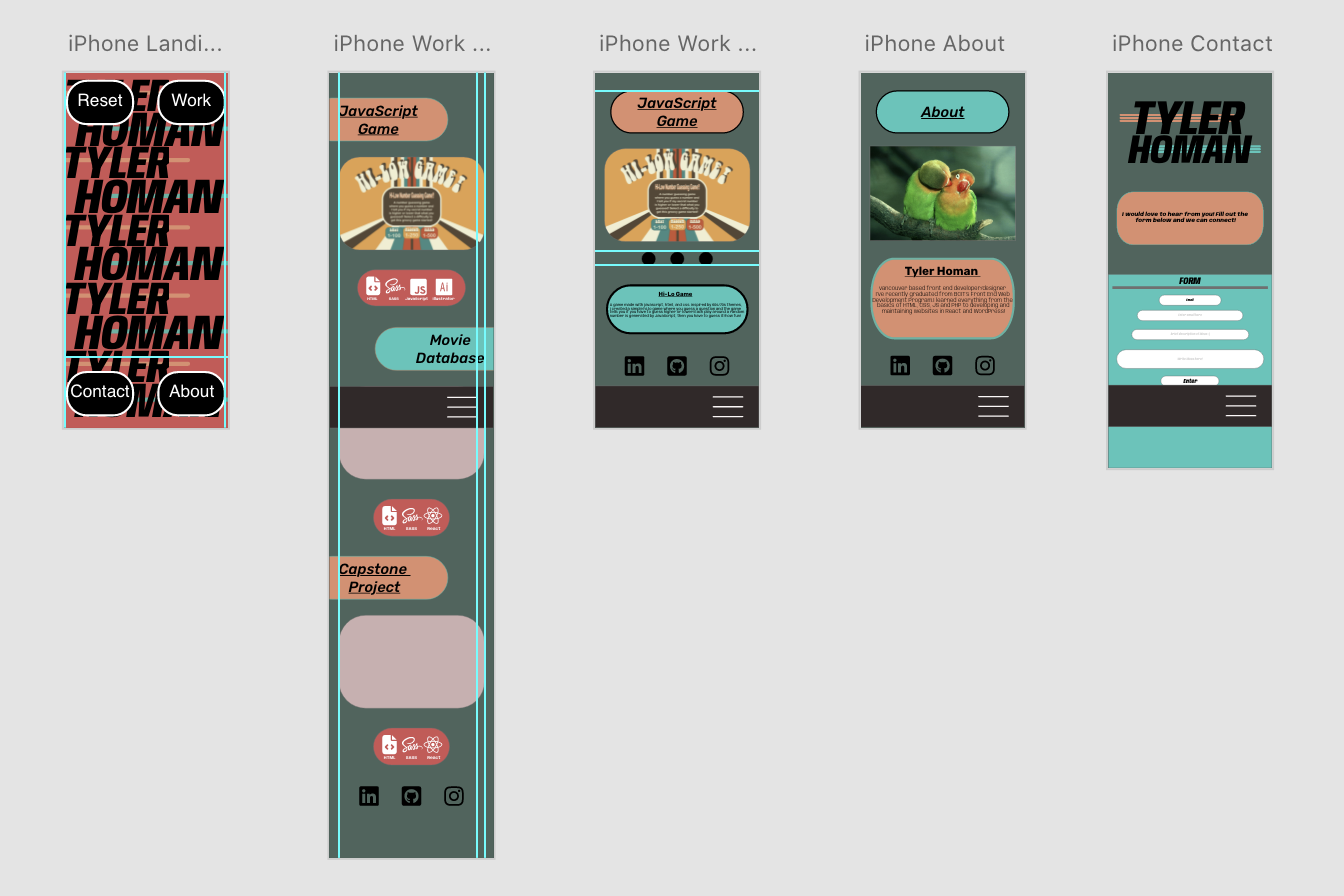
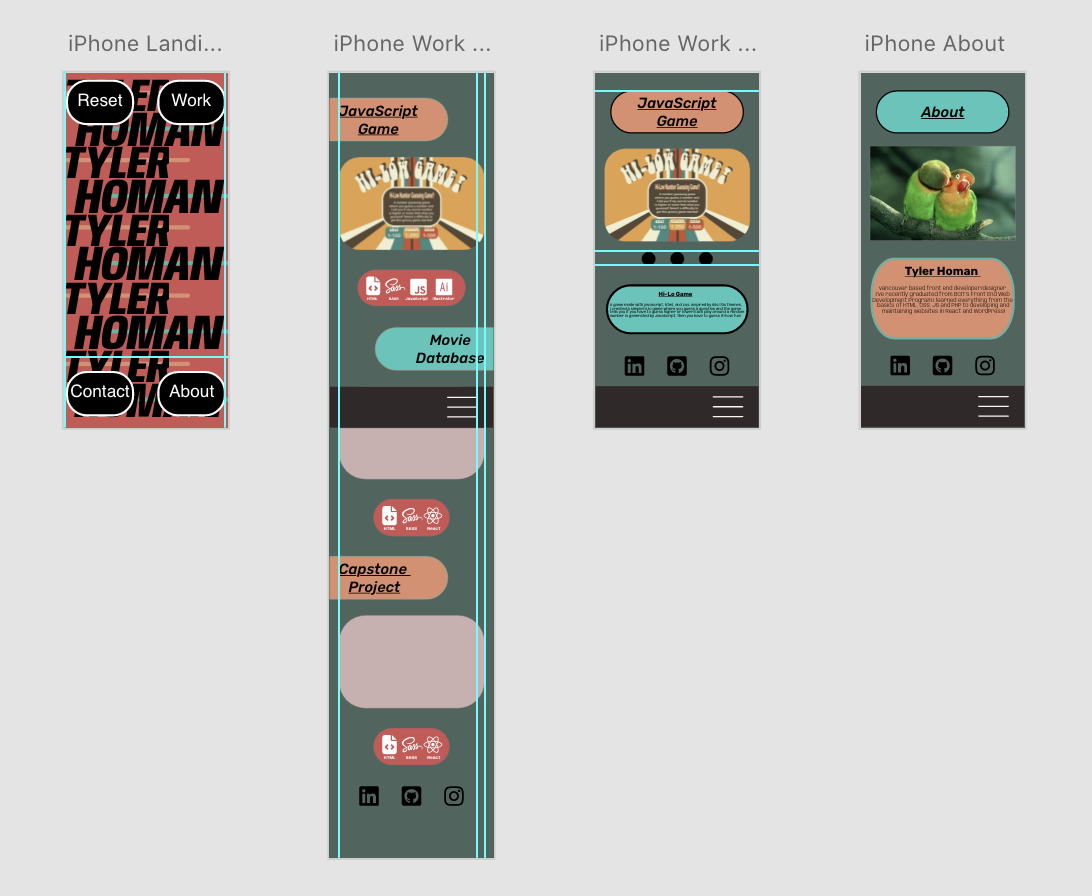
more edits, clean ups, also additions to code and images

diff --git a/src/scss/_landing.scss b/src/scss/_landing.scss
@@ -20,29 +20,6 @@ body {
   white-space: nowrap;
 }
 
-.homan span {
-  font-family: "rubik", sans-serif;
-  position: relative;
-  top: 16.5rem;
-  font-weight: 900;
-  color: $orange;
-  font-size: 5em;
-  text-transform: uppercase;
-  display: inline-block;
-  padding-left: -10%;
-  animation: homan-animation 200s linear infinite;
-  overflow: hidden;
-}
-
-@keyframes homan-animation {
-  0% {
-    transform: translate(0, 0);
-  }
-  100% {
-    transform: translate(-100%, 0);
-  }
-}
-
 .tyler {
   width: 100%;
   padding-left: 4em;
@@ -74,7 +51,7 @@ body {
 .designdev {
   width: 100%;
   position: relative;
-  top: 22em;
+  top: 23em;
   padding-left: 4em;
   margin: 0, auto;
   white-space: nowrap;
@@ -93,6 +70,29 @@ body {
 }
 
 @keyframes designdev-animation {
+  0% {
+    transform: translate(0, 0);
+  }
+  100% {
+    transform: translate(-100%, 0);
+  }
+}
+
+.homan span {
+  font-family: "rubik", sans-serif;
+  position: relative;
+  top: 16.5rem;
+  font-weight: 900;
+  color: $orange;
+  font-size: 5em;
+  text-transform: uppercase;
+  display: inline-block;
+  padding-left: -10%;
+  animation: homan-animation 200s linear infinite;
+  overflow: hidden;
+}
+
+@keyframes homan-animation {
   0% {
     transform: translate(0, 0);
   }
@@ -178,7 +178,7 @@ body {
 
   .homan span {
     position: fixed;
-    top: 35rem;
+    top: 34rem;
     font-weight: 900;
     color: $orange;
     font-size: 10em;

diff --git a/src/routers/AppRouter.js b/src/routers/AppRouter.js
@@ -1,7 +1,6 @@
 import { BrowserRouter, Routes, Route } from "react-router-dom";
 import Nav from "../components/Nav";
 import Works from "../pages/PageWorks";
-import Single from "../pages/PageWorksSingle";
 import About from "../pages/PageAbout";
 import Landing from "../pages/PageLanding";
 import "../scss/styles.scss";
@@ -21,7 +20,6 @@ function AppRouter() {
             <Route path="/" element={<Landing />} />
             <Route path="/works" exact element={<Works />} />
             <Route path="/about" element={<About />} />
-            <Route path="/singleworks" element={<Single />} />
             <Route path="/capstone" element={<Capstone />} />
             <Route path="/hilo" element={<HiLo />} />
             <Route path="/movie-database" element={<MovieDatabase />} />

diff --git a/src/scss/_works.scss b/src/scss/_works.scss
@@ -14,9 +14,7 @@
   animation: worksSpanLarge-animation 250s linear infinite;
   overflow: hidden;
 }
-// .worksSpanLarge span:hover {
-//   animation-play-state: paused;
-// }
+
 @keyframes worksSpanLarge-animation {
   0% {
     transform: translate(0, 0);
@@ -432,7 +430,7 @@
 
 @media (min-width: 1100px) {
   .website-image img {
-    width: 750px;
+    width: 650px;
     height: auto;
     border-radius: 20px;
   }
@@ -474,7 +472,7 @@
 
 @media (min-width: 1500px) {
   .website-image img {
-    width: 950px;
+    width: 750px;
     height: auto;
     border-radius: 20px;
   }

diff --git a/src/pages/PageWorks.js b/src/pages/PageWorks.js
@@ -30,7 +30,7 @@ function PageWorks() {
         <div className="website-image">
           <NavLink to="/website">
             {Content && (
-              <img src={Content["capstone"].images[0]} alt="WebSite" />
+              <img src={Content["website"].images[0]} alt="WebSite" />
             )}
           </NavLink>
         </div>

diff --git a/src/scss/_single.scss b/src/scss/_single.scss
@@ -68,9 +68,9 @@
   margin: 0.75rem auto;
 
   a {
-    color: $creme;
+    color: black;
     font-size: 1.25rem;
-    font-family: "rubrik", sans-serif;
+    font-family: "rubik", sans-serif;
   }
 }
 

diff --git a/src/scss/_slider.scss b/src/scss/_slider.scss
@@ -24,8 +24,12 @@
     margin: 0px 10px 0;
   }
 }
+
+.slider {
+  width: 75%;
+}
 .slide {
-  width: 100%;
+  max-width: 100%;
   height: 0;
   // position: absolute;
   opacity: 0;

diff --git a/src/scss/styles.scss b/src/scss/styles.scss
@@ -8,3 +8,4 @@
 @use "single";
 @use "globals";
 @use "accordion";
+@use "website-portfolio";

diff --git a/src/scss/_website-portfolio.scss b/src/scss/_website-portfolio.scss
@@ -1,0 +1,1 @@
+@use "vars" as *;
